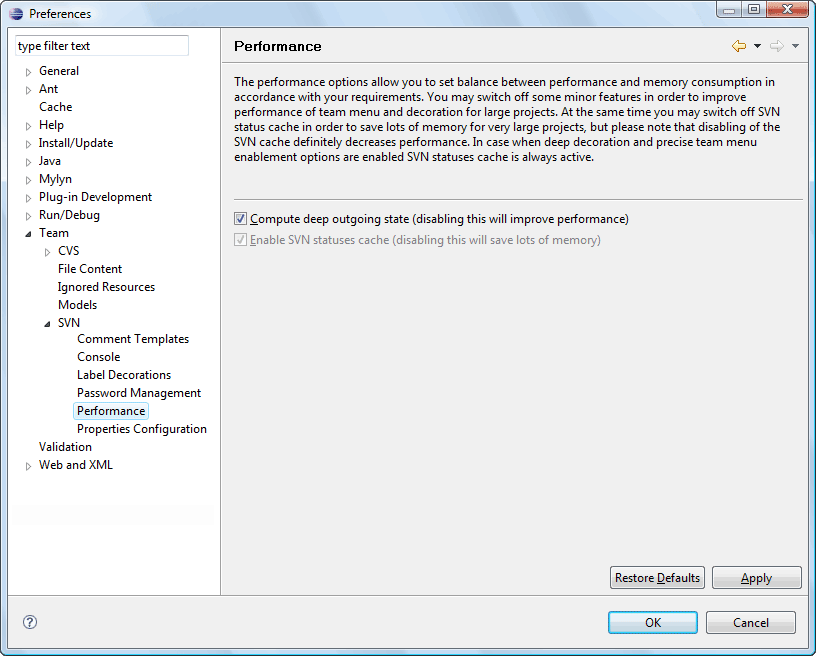
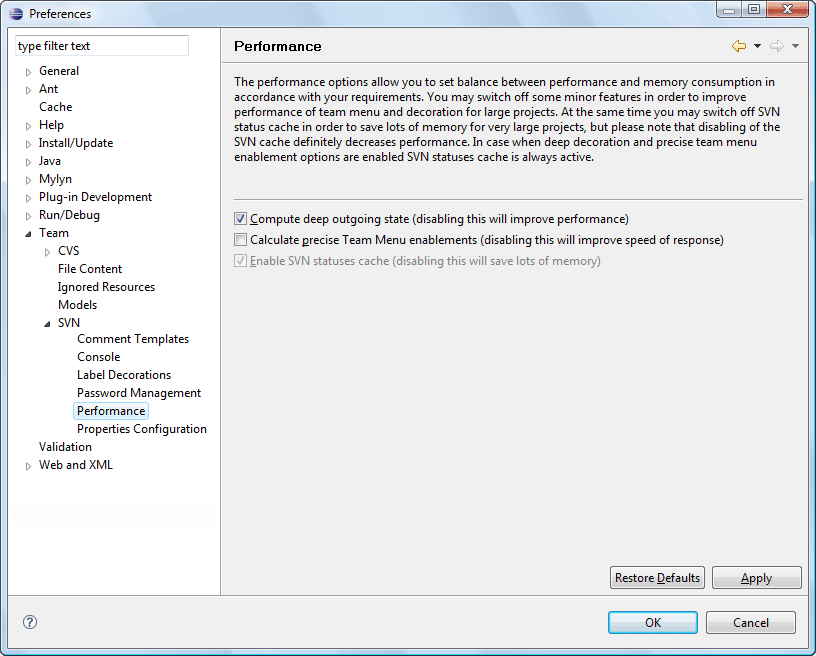
Update help according to plug-in changes (bug 225568) https://bugs.eclipse.org/bugs/show_bug.cgi?id=225568

Changed region(s): [[0.2757, 0.3354, 0.8885, 0.4268]]

diff --git a/org.eclipse.team.svn.help/preferences/pref_performance.html b/org.eclipse.team.svn.help/preferences/pref_performance.html
@@ -54,6 +54,11 @@
 			<td align ="center" valign="center">Enabled</td>
 		</tr>
 		<tr>
+			<td align ="center" valign="center">Calculate precise Team Menu enablements</td>
+			<td align ="center" valign="center">Specifies if the enamblements of Team Menu actions should be calculated before showing it. When disabled the Team Menu is shown immediately, but the enablement is not calculated. If enabled, the Team Menu for large projects can appear in some period of time.</td>
+			<td align ="center" valign="center">Disabled</td>
+		</tr>
+		<tr>
 			<td align ="center" valign="center">Enable SVN statuses cache</td>
 			<td align ="center" valign="center">Specifies if the SVN statuses cache is enabled. Always enabled if  computing of deep outgoing state is enabled.</td>
 			<td align ="center" valign="center">Enabled</td>
